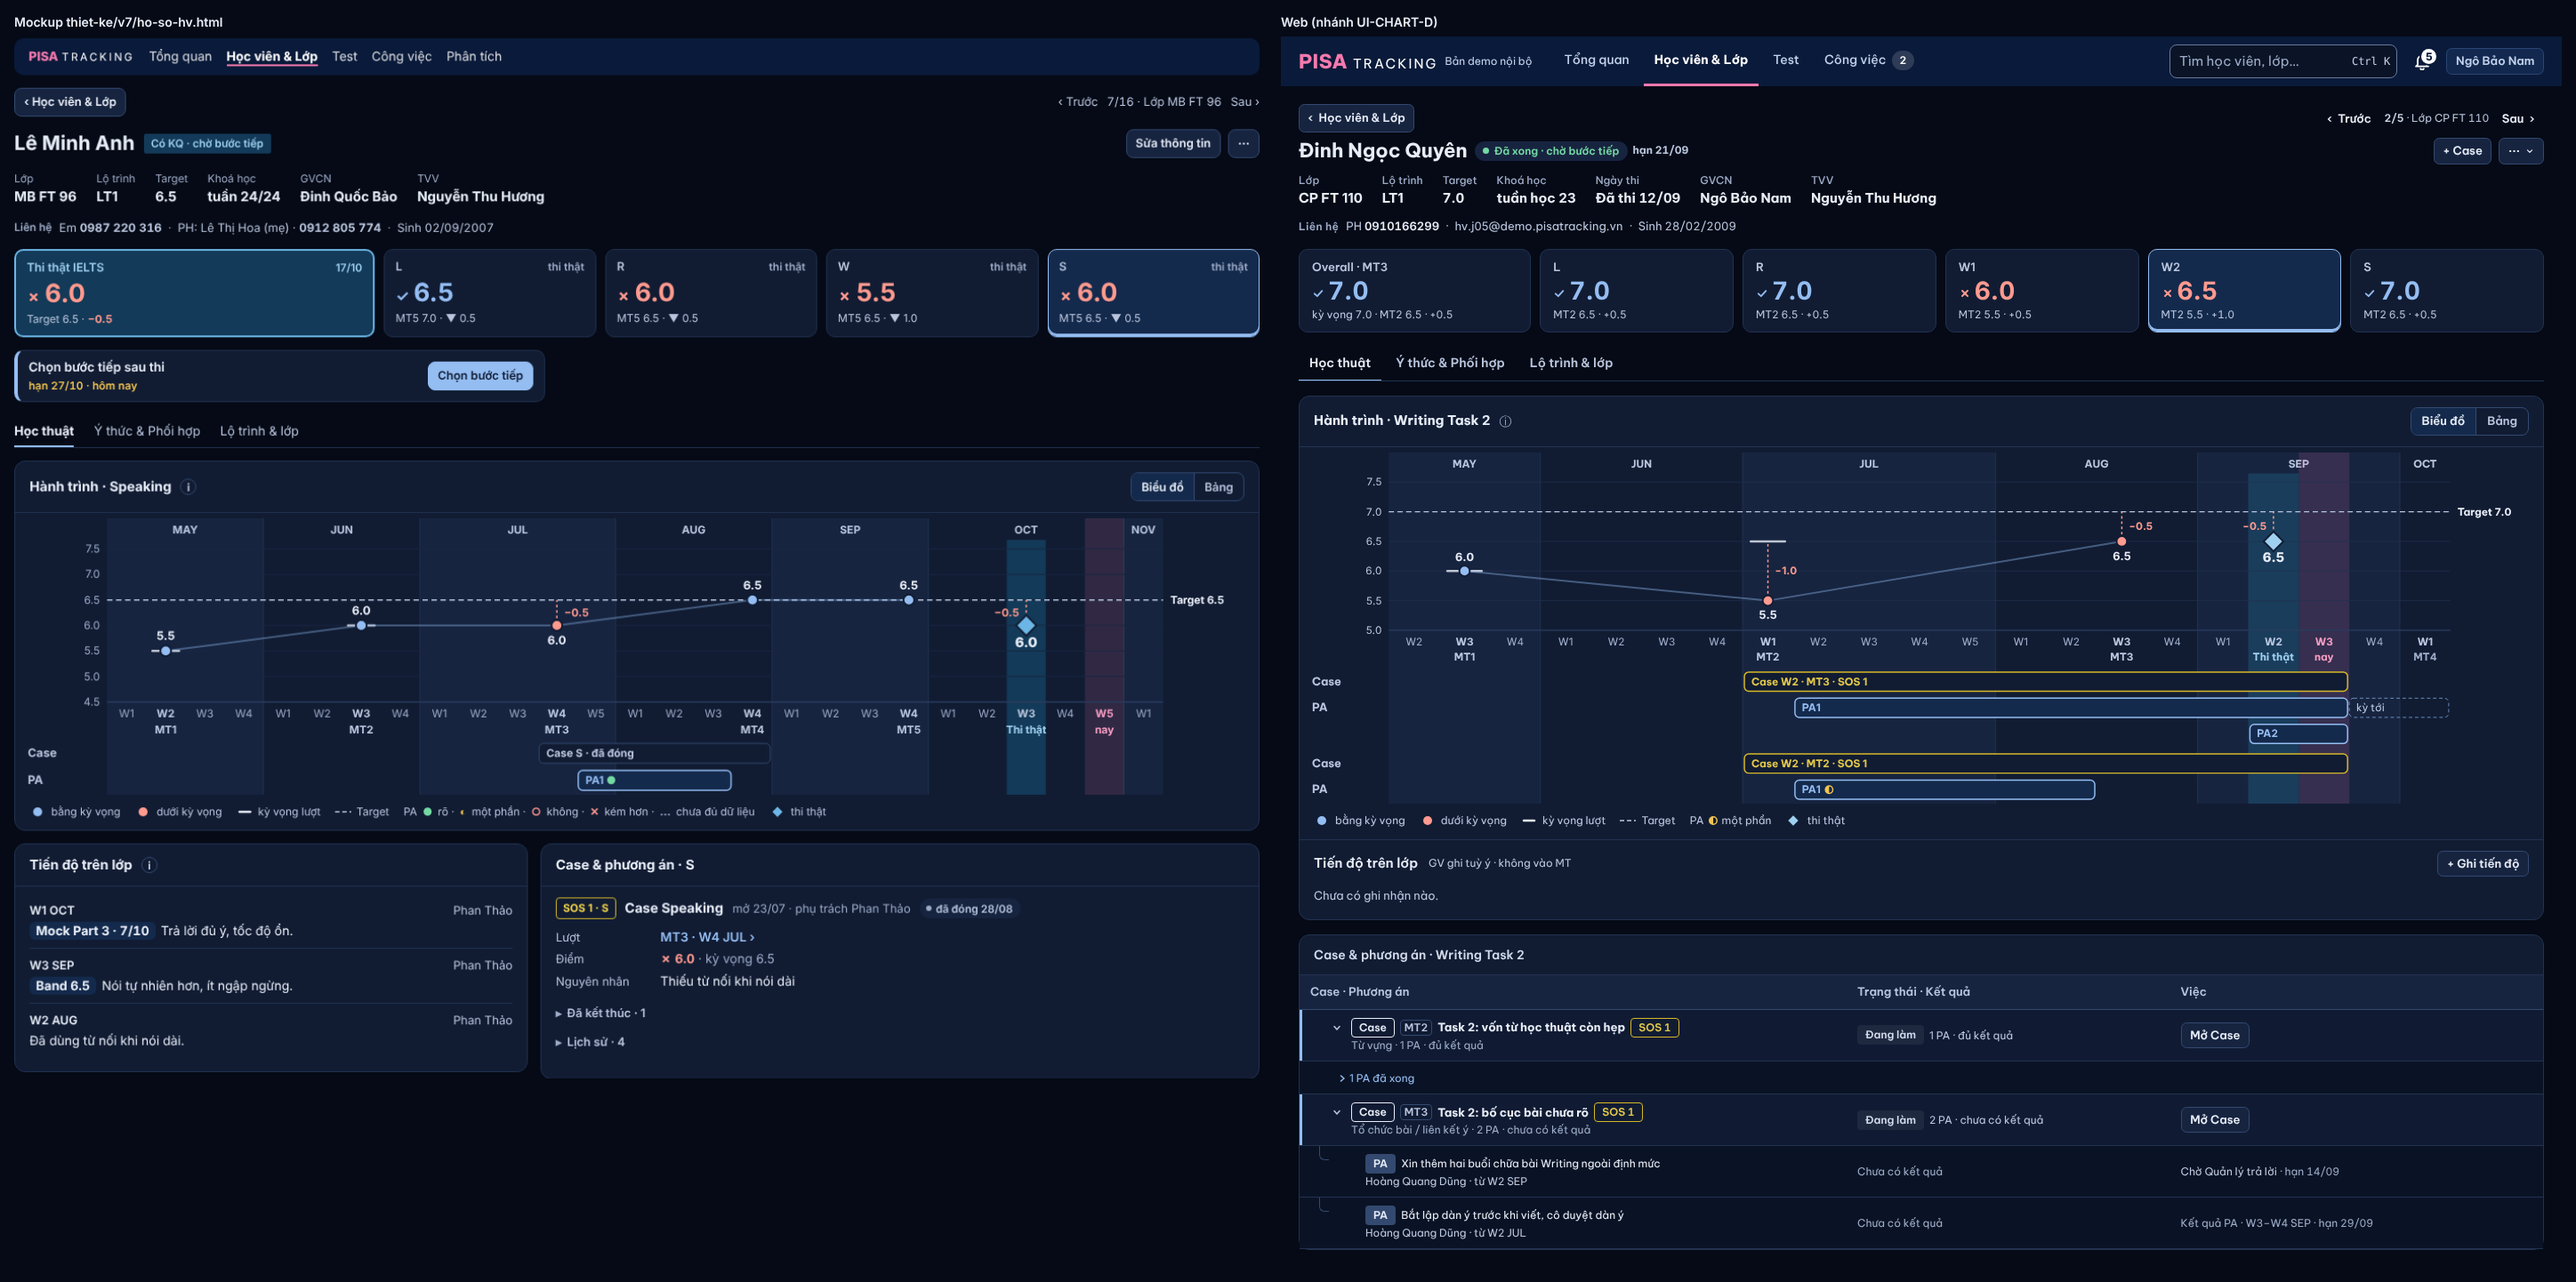
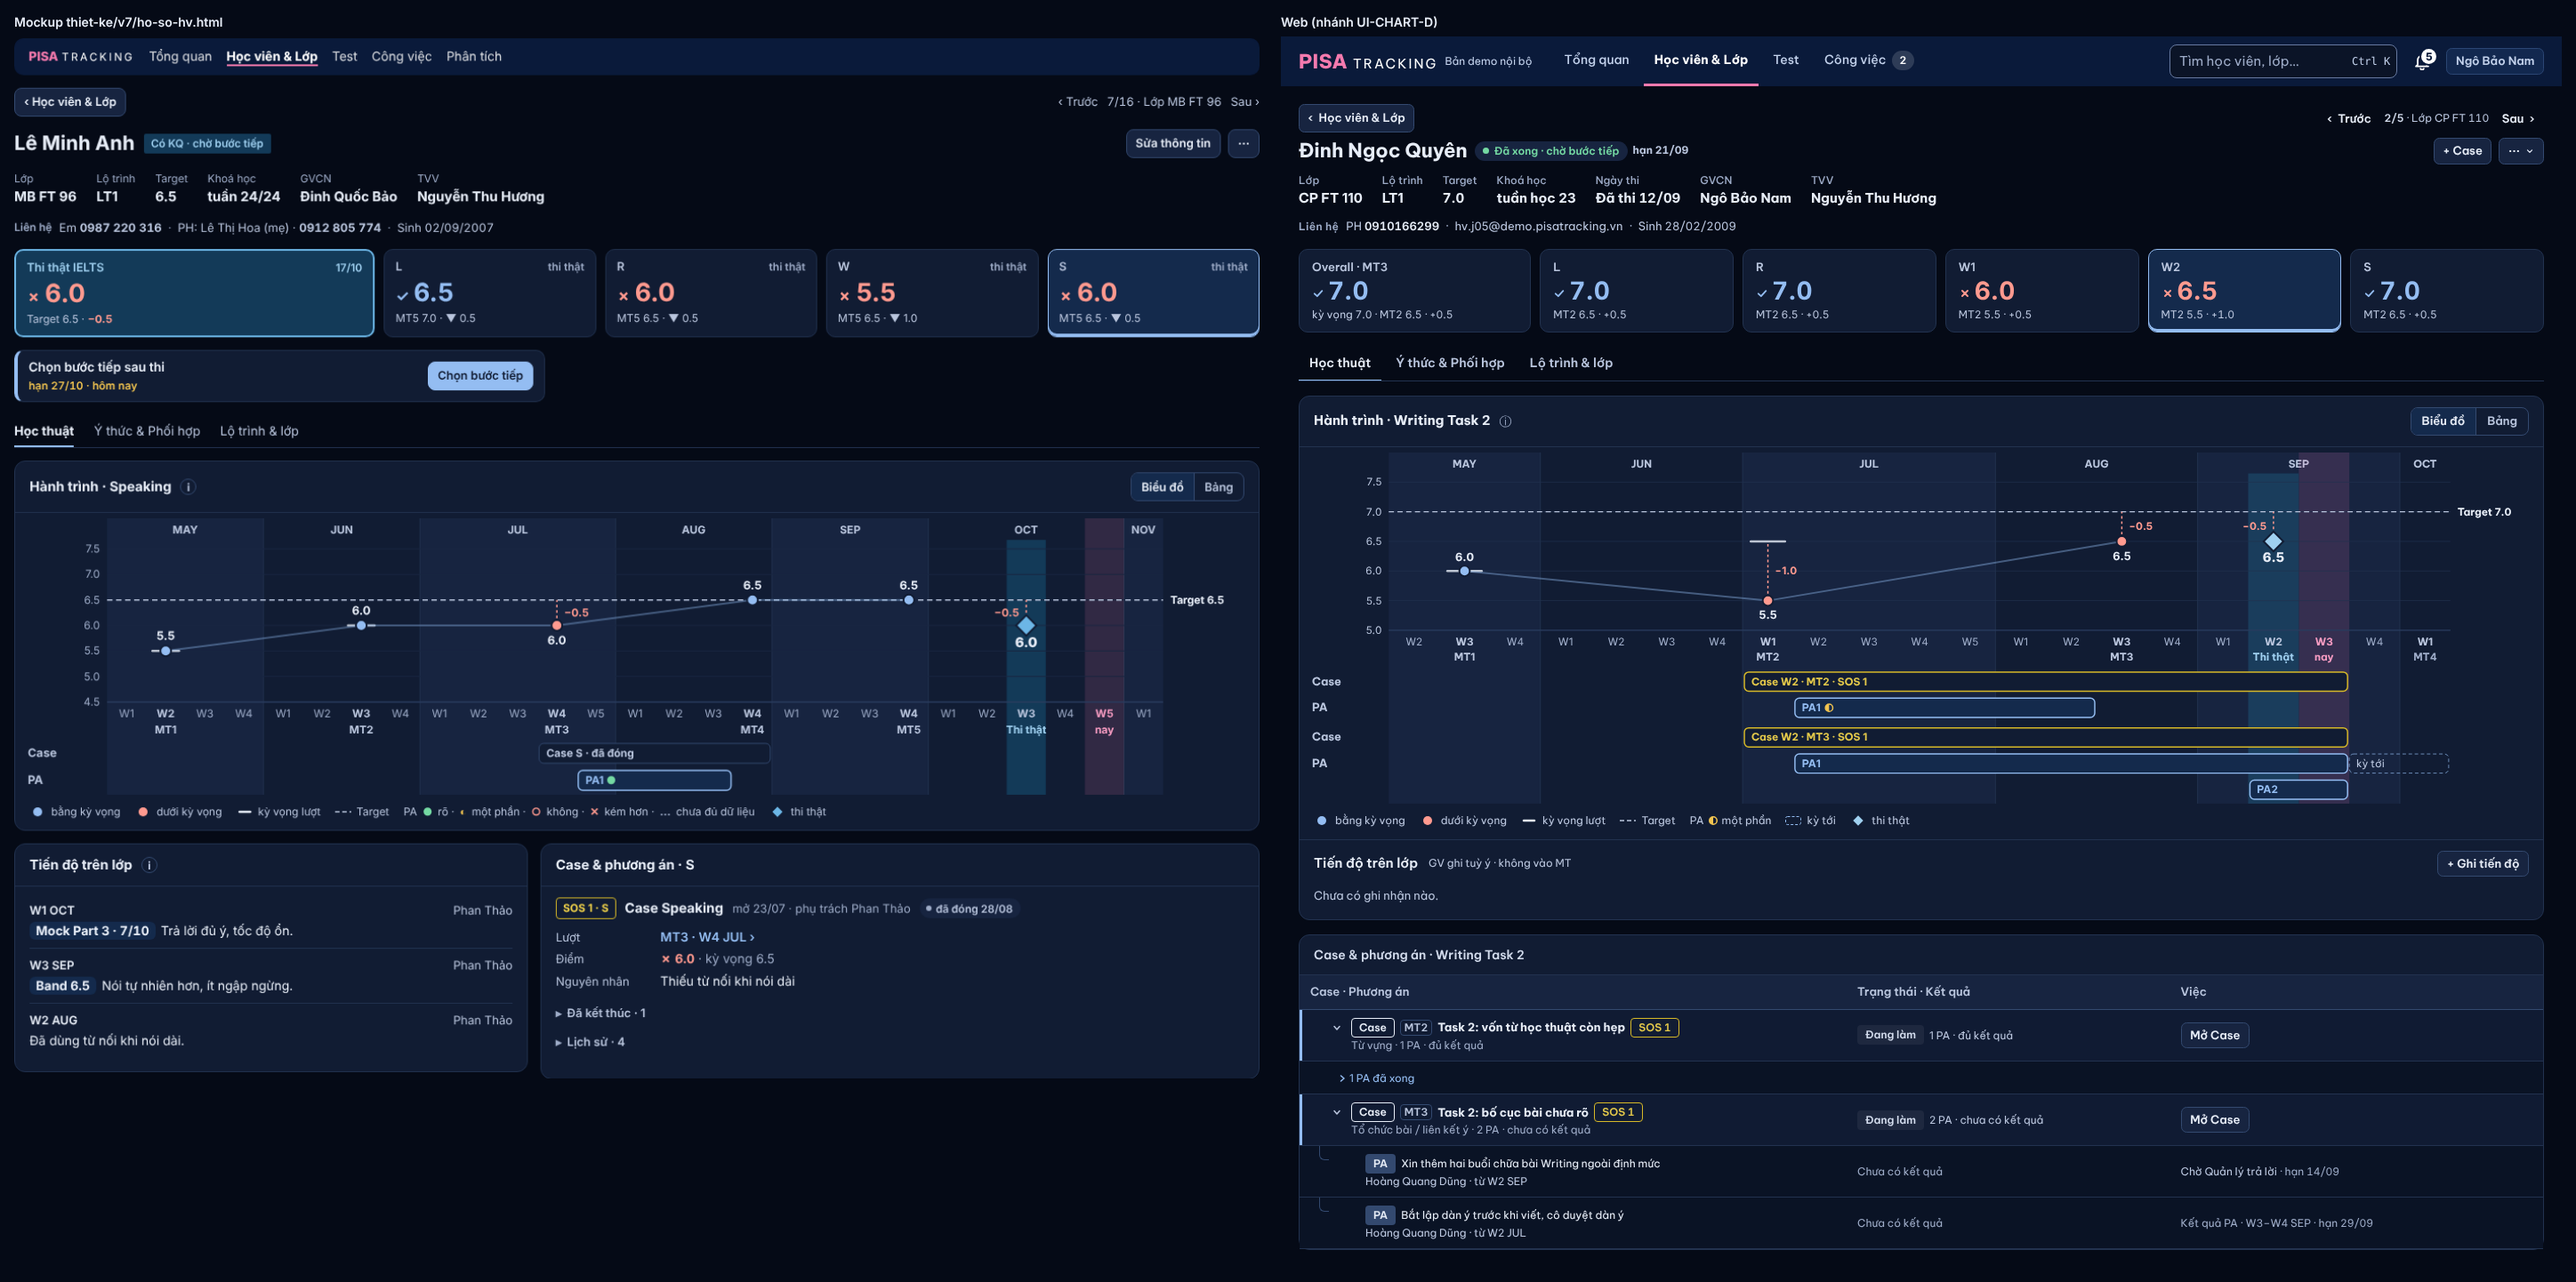
UI-CHART-D: sửa sau critique vòng 4 (P2 / P3)
- PA đang chạy: hộp nhỏ có "hạn kế", chú giải có "kỳ tới"; tiêu đề Case kèm MT
- lượt không học là dấu Tab được; vòng focus ôm cột thi (chờ KQ / dự kiến); Case mở cùng ngày xếp theo MT
- thẻ 375 bảng Mock Test: link điểm và MT › đủ 44 px

Claude-Session: https://claude.ai/code/session_01RTBZa1KZMGquWszZKdt5DW

Changed region(s): [[0.6837, 0.5305, 0.9323, 0.6241]]

diff --git a/web/src/modules/students/BieuDoD.tsx b/web/src/modules/students/BieuDoD.tsx
@@ -102,7 +102,7 @@ export function BieuDoD(o: BieuDoDProps) {
   /* Case chồng thời gian → làn riêng (mỗi làn một hàng Case + một hàng PA nếu có): không Case nào bị che. */
   const lan: { cs: CaseD[]; het: number; coPa: boolean; paHang?: Map<number, number>; soHang?: number }[] = [];
   const hetPa = (p: PaD) => cot(p.den ?? (p.denDk && p.denDk > nay ? p.denDk : nay));
-  [...o.cases].sort((a, b) => a.mo.localeCompare(b.mo) || a.id - b.id).forEach((c) => {
+  [...o.cases].sort((a, b) => a.mo.localeCompare(b.mo) || (a.mt ?? '').localeCompare(b.mt ?? '', 'en', { numeric: true }) || a.id - b.id).forEach((c) => {
     const dau = cot(c.mo), het = Math.max(cot(c.dong ?? nay), ...c.pa.map(hetPa));
     const l = lan.find((x) => x.het < dau);
     if (l) { l.cs.push(c); l.het = Math.max(l.het, het); l.coPa ||= c.pa.length > 0; } else lan.push({ cs: [c], het, coPa: c.pa.length > 0 });
@@ -216,7 +216,9 @@ export function BieuDoD(o: BieuDoDProps) {
     if (p.loai === 'sap') return;
     const x = Xc(p.tuan);
     if (p.loai === 'khong') {
-      ve.push(<text key={`k${p.khoa}`} x={x} y={py1 - 8} textAnchor="middle" fontSize="12" fill="var(--text-dim)" fontFamily={PHONG} aria-hidden>{p.chu}</text>);
+      /* Tab / đọc màn tới được cả lượt không học */
+      ve.push(dau(p.khoa, x, py1 - 12, p.goi, <text x={x} y={py1 - 8} textAnchor="middle" fontSize="12" fill="var(--text-dim)" fontFamily={PHONG}>{p.chu}</text>,
+        { x: x - 32, y: py1 - 24, w: 64, h: 22 }));
       return;
     }
     if (p.loai === 'vang') {
@@ -248,7 +250,10 @@ export function BieuDoD(o: BieuDoDProps) {
       if (tg != null && o.thi.v < tg) ve.push(lech('thilc', xt, yt, Y(tg), fmt(tg - o.thi.v), true));
       ve.push(dau('thi', xt, yt, o.thi.goi, <rect x={xt - 8} y={yt - 8} width="16" height="16" transform={`rotate(45 ${xt} ${yt})`} fill="var(--lich-chu)" stroke="var(--surface)" strokeWidth="2" />));
       ve.push(<text key="thic" x={xt} y={tg != null && o.thi.v < tg ? yt + 24 : yt - 14} textAnchor="middle" fontSize="15" fontWeight="800" fill="var(--text)" aria-hidden>{fmt(o.thi.v)}</text>);
-    } else ve.push(dau('thi', xt, py1 - 10, o.thi.goi, null));   // chờ KQ / dự kiến: chỉ cột, dấu vô hình để Tab / chạm đọc
+    } else {   // chờ KQ / dự kiến: chỉ cột; vùng chạm = chính cột / khối (vòng focus ôm cột)
+      const a = Xl(thiKhoi[0]), b = Xl(thiKhoi[1]) + cw;
+      ve.push(dau('thi', xt, py1 - 10, o.thi.goi, null, { x: a + 1, y: py0, w: b - a - 2, h: py1 - py0 }));
+    }
   }
   /* trục: W1…W5 mọi cột (đậm ở cột có mốc) + hàng tên mốc đúng cột */
   const coMoc = new Set([...xem.map((p) => mondayOfDate(p.tuan)), ...o.sex.map((q) => mondayOfDate(q.tuan)), ...(o.thi?.tuan ? [mondayOfDate(o.thi.tuan)] : [])]);
@@ -335,8 +340,10 @@ export function BieuDoD(o: BieuDoDProps) {
 }
 
 /** Chú giải dưới chart (chỉ mục có trên chart; đọc màn bỏ qua — mỗi dấu đã có tên riêng). */
-export function ChuGiaiD({ kq, kvLuot, vang, thieu, tamDung, sex, pa, thi, kvChu }: {
+export function ChuGiaiD({ kq, kvLuot, vang, thieu, tamDung, sex, pa, kyToi = false, thi, kvChu }: {
   kq: { vuot: boolean; bang: boolean; duoi: boolean } | 'thuong'; kvLuot: boolean; vang: boolean; thieu: boolean; tamDung: boolean; sex: boolean;
+  /** Có khung đứt "kỳ tới" (PA đang chạy, hạn ghi kết quả sau tuần này). */
+  kyToi?: boolean;
   /** Mã kết quả PA có trên chart (chỉ giải thích ký hiệu đang thấy). */
   pa: string[];
   thi: 'kq' | 'cho' | 'du-kien' | null; kvChu: string;
@@ -357,6 +364,7 @@ export function ChuGiaiD({ kq, kvLuot, vang, thieu, tamDung, sex, pa, thi, kvChu
       {pa.length > 0 && <span className="inline-flex items-center gap-1 whitespace-nowrap">{t('PA')} {(['improved', 'partial', 'unchanged', 'worse', 'insufficient'] as const).filter((k) => pa.includes(k)).map((k, i) => (
         <span key={k} className="inline-flex items-center gap-1">{i > 0 && ' · '}<svg viewBox="0 0 12 12" width="12" height="12" aria-hidden><KyHieuPa k={k} x={6} y={6} /></svg>{{ improved: t('rõ'), partial: t('một phần'), unchanged: t('không'), worse: t('kém hơn'), insufficient: t('chưa đủ dữ liệu') }[k]}</span>
       ))}</span>}
+      {kyToi && <span className="inline-flex items-center gap-1.5 whitespace-nowrap">{c(<rect x="0.5" y="1.5" width="17" height="9" rx="2" fill="none" stroke="var(--accent)" strokeDasharray="3 2" />)}{t('kỳ tới')}</span>}
       {thi === 'kq' && <span className="inline-flex items-center gap-1.5 whitespace-nowrap">{c(<rect x="5" y="2" width="8" height="8" transform="rotate(45 9 6)" fill="var(--lich-chu)" />)}{t('thi thật')}</span>}
       {thi === 'cho' && <span className="inline-flex items-center gap-1.5 whitespace-nowrap">{c(<rect x="0" y="0" width="18" height="12" fill="var(--lich-nen)" />)}{t('thi thật · chờ kết quả')}</span>}
       {thi === 'du-kien' && <span className="inline-flex items-center gap-1.5 whitespace-nowrap">{c(<rect x="0.5" y="0.5" width="17" height="11" rx="2" fill="var(--lich-nen)" stroke="var(--lich-vien)" strokeDasharray="3 2" />)}{t('thi thật dự kiến')}</span>}

diff --git a/web/src/modules/students/HanhTrinhKyNang.tsx b/web/src/modules/students/HanhTrinhKyNang.tsx
@@ -184,12 +184,13 @@ function duLieuKn({ kn, row, attempts, cy, sEx, homNay, tenKn, ten, onMoCase }: 
     const dong = c.status === 'done' ? c.closedOn ?? c.touchedOn ?? c.openedOn : null;
     return {
       id: c.id, chu: row!.short, mt: (c.tenSos?.mt ?? c.attempts[0]?.attemptNo) != null ? `MT${c.tenSos?.mt ?? c.attempts[0]?.attemptNo}` : null, sos: c.sosLevel, mo: c.openedOn!, dong,
-      goi: { tieu: `Case ${tenKn}${c.sosLevel ? ` · SOS ${c.sosLevel}` : ''}`, mo: onMoCase ? () => onMoCase(c.id) : undefined, dong: [c.title.replace(/\[[^\]]*\]\s*/g, '').trim(), `${t('mở {ngay}', { ngay: ngay(c.openedOn, homNay) })}${dong ? ` · ${t('đã đóng {ngay}', { ngay: ngay(dong, homNay) })}` : ''}`] },
+      goi: { tieu: `Case ${tenKn}${(c.tenSos?.mt ?? c.attempts[0]?.attemptNo) != null ? ` · MT${c.tenSos?.mt ?? c.attempts[0]?.attemptNo}` : ''}${c.sosLevel ? ` · SOS ${c.sosLevel}` : ''}`, mo: onMoCase ? () => onMoCase(c.id) : undefined, dong: [c.title.replace(/\[[^\]]*\]\s*/g, '').trim(), `${t('mở {ngay}', { ngay: ngay(c.openedOn, homNay) })}${dong ? ` · ${t('đã đóng {ngay}', { ngay: ngay(dong, homNay) })}` : ''}`] },
       pa: c.plans.filter((p) => p.startedOn && p.status !== 'cancelled' && !p.chuaChay).sort((x, y) => x.startedOn!.localeCompare(y.startedOn!)).map((p, i) => {
         const den = p.completedOn;
         return {
           id: p.id, ten: `PA${i + 1}`, tu: p.startedOn!, den, denDk: den ? null : p.actionDue ?? p.followupDue, kq: p.lastOutcome,   // hạn kỳ tới = hạn ghi kết quả của ngăn Case (`actionDue`)
-          goi: { tieu: `PA${i + 1} · ${dich(p.kindLabel)}`, mo: onMoCase ? () => onMoCase(c.id, p.id) : undefined, dong: [p.name, `${tuanLich(p.startedOn)} – ${den ? tuanLich(den) : t('nay')}${p.lastOutcomeLabel ? ` · ${dich(p.lastOutcomeLabel)}` : ''}`] },
+          goi: { tieu: `PA${i + 1} · ${dich(p.kindLabel)}`, mo: onMoCase ? () => onMoCase(c.id, p.id) : undefined, dong: [p.name, `${tuanLich(p.startedOn)} – ${den ? tuanLich(den) : t('nay')}${p.lastOutcomeLabel ? ` · ${dich(p.lastOutcomeLabel)}` : ''}`,
+            ...(!den && (p.actionDue ?? p.followupDue) ? [t('hạn kế {ngay}', { ngay: ngay(p.actionDue ?? p.followupDue, homNay) })] : [])] },
         };
       }),
     };
@@ -272,6 +273,7 @@ export function HanhTrinhKn({ studentId, kn, row, attempts, cy, homNay, tenKn, t
             kvLuot={!cy.ratio && d.diem.some((x) => x.kv != null && x.kv !== (d.target?.filter((g) => !g.tu || g.tu <= x.tuan).at(-1)?.v ?? null))}
             vang={d.diem.some((x) => x.loai === 'vang')} thieu={d.diem.some((x) => x.loai === 'thieu')} tamDung={!!tamDung?.length} sex={d.sex.length > 0}
             pa={d.cases.flatMap((c) => c.pa.map((p) => p.kq).filter((k): k is string => !!k))}
+            kyToi={d.cases.some((c) => c.pa.some((p) => !p.den && !!p.denDk && mondayOfDate(p.denDk) > mondayOfDate(homNay)))}
             thi={!d.thi ? null : d.thi.v != null ? 'kq' : d.thi.cho ? 'cho' : 'du-kien'} kvChu={d.kvPhang?.chu ?? 'Target'} />
           {!coDiem && <p className="m-0 px-4 pb-3 text-[13px] text-slate-400">{t('Chưa có điểm MT ở {kn}.', { kn: tenKn })}</p>}
         </>

diff --git a/web/src/modules/students/StudentDetailPage.tsx b/web/src/modules/students/StudentDetailPage.tsx
@@ -571,7 +571,7 @@ function IeltsAttempts({ attempts, dotId, homNay, onOpen, thi = null }: {
   const diemKyNang = (a: any, k: typeof KN_MOCK[number]) => {
     const w = k === 'writing1' || k === 'writing2', b = w ? a.diemKn?.[k] ?? null : a.bands?.[k] ?? null, kd = w ? 'writing' : k;
     return b != null
-      ? <Link to={duongDotTest(a, kd)} className="no-underline hover:underline" title={`${t('Mở Hồ sơ Mock Test')} · MT${a.attemptNo} · ${w ? CHU_KY_NANG[k] : skillLabel(kd)}`} onClick={(e) => e.stopPropagation()}><DiemKq diem={b} kyVong={a.expectation} /></Link>
+      ? <Link to={duongDotTest(a, kd)} className={`no-underline hover:underline ${dienThoai ? '-mx-1.5 -my-3.5 inline-block px-1.5 py-3.5' : ''}`} title={`${t('Mở Hồ sơ Mock Test')} · MT${a.attemptNo} · ${w ? CHU_KY_NANG[k] : skillLabel(kd)}`} onClick={(e) => e.stopPropagation()}><DiemKq diem={b} kyVong={a.expectation} /></Link>
       : fmtBand(b);
   };
   /*
@@ -586,7 +586,7 @@ function IeltsAttempts({ attempts, dotId, homNay, onOpen, thi = null }: {
             dau={(
               <div className="flex items-start justify-between gap-2">
                 <div className="min-w-0">
-                  <Link to={attemptHref(a)} className="link font-semibold tabular-nums">MT{a.attemptNo} ›</Link><NhanDot a={a} />
+                  <Link to={attemptHref(a)} className="link min-w-[44px] font-semibold tabular-nums">MT{a.attemptNo} ›</Link><NhanDot a={a} />
                   <div className="text-xs text-slate-500">{a.weekStart ? tuanLich(a.weekStart, homNay) : <Info pending>{t('Chưa có tuần')}</Info>}</div>
                 </div>
                 <div className="shrink-0 text-right">
